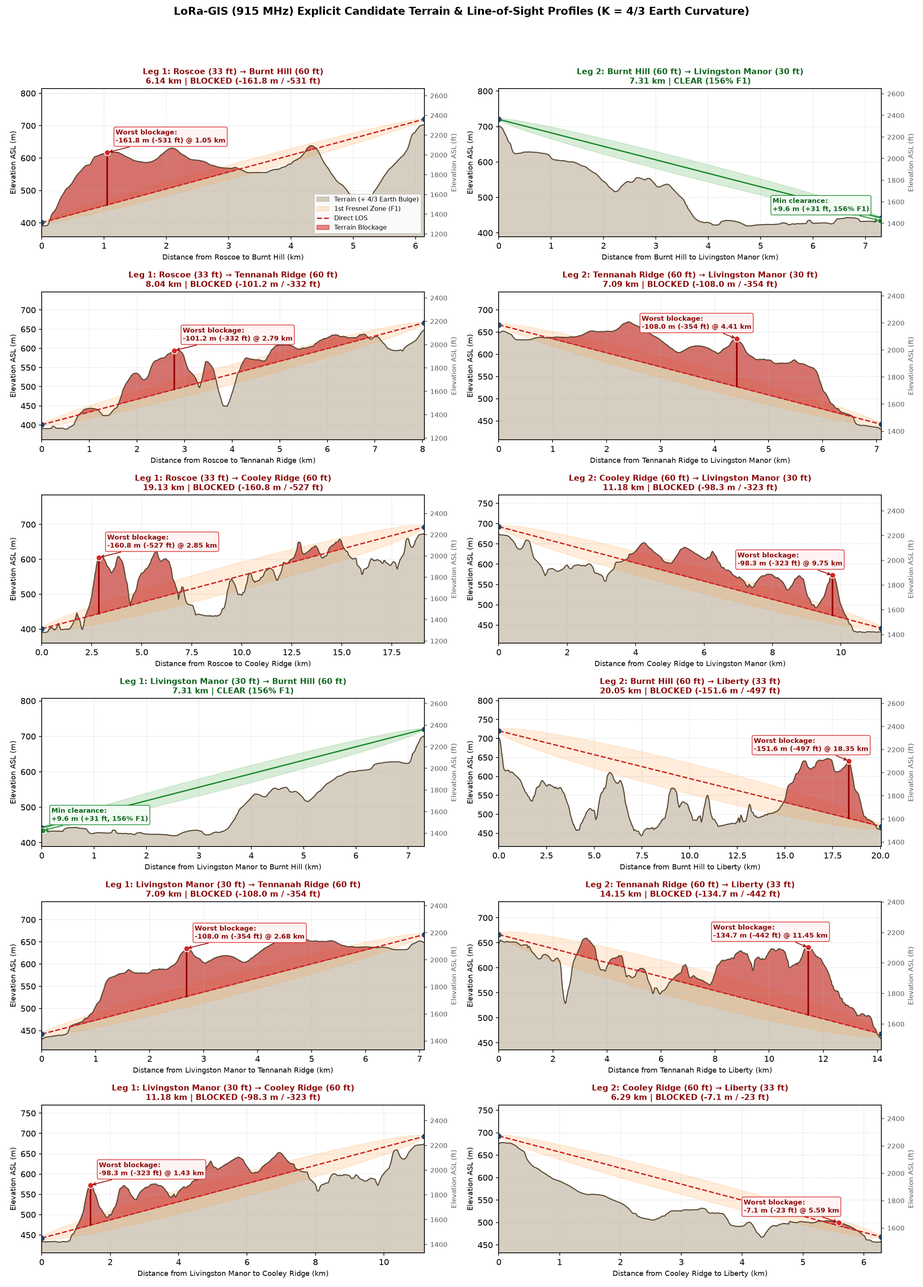
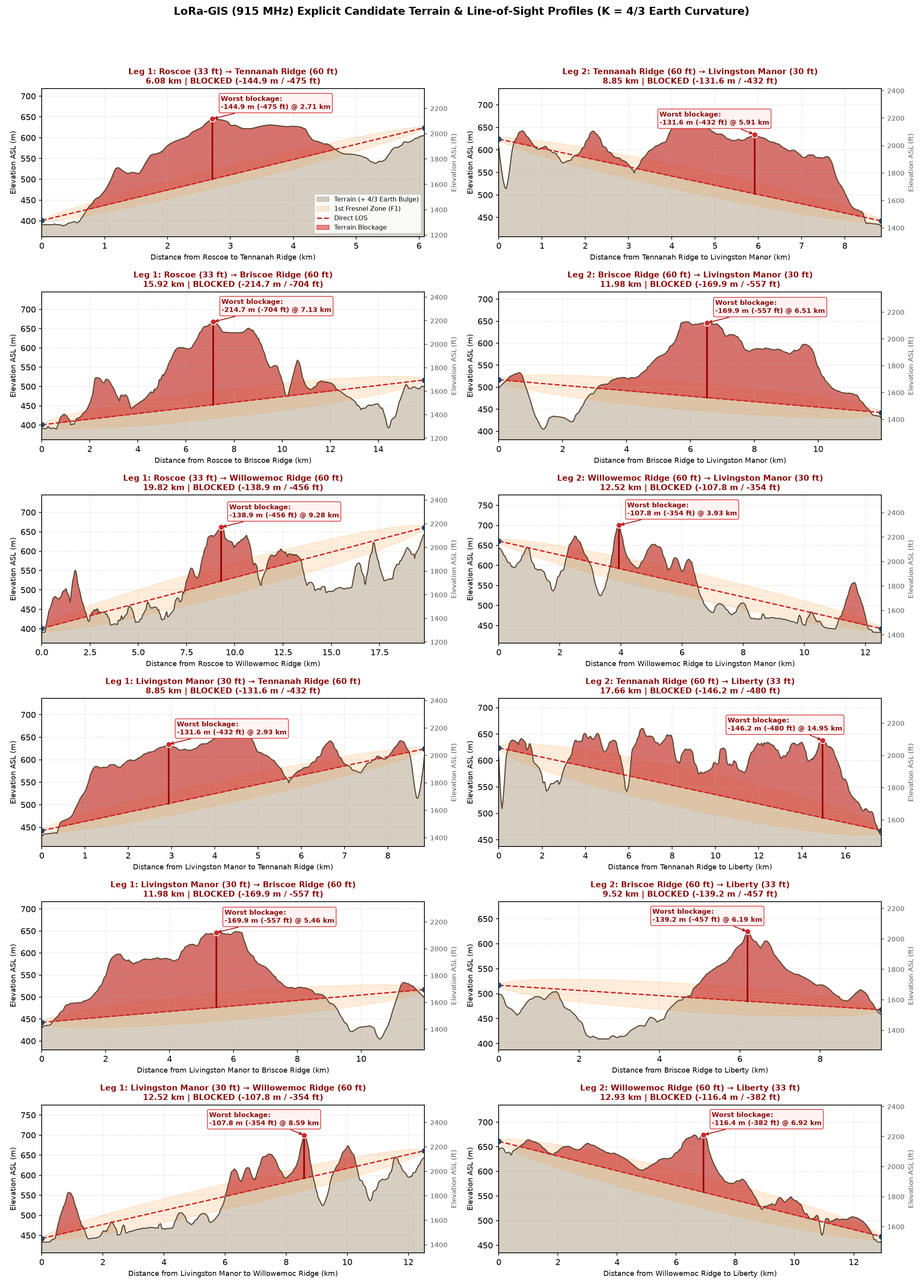
Spread example relays so blockage markers and labels avoid clutter
Move example candidates to Tennanah Ridge, Briscoe Ridge, and Willowemoc Ridge so all nine terrain blockage X markers sit cleanly in open terrain away from towns, relays, and each other. Disable partial edge-clipped labels and prioritize candidate labels in cartography.py.

diff --git a/lora_gis/cartography.py b/lora_gis/cartography.py
@@ -481,6 +481,7 @@ def render_topographic_map(
             c_lbl.fieldName = "LabelText"
             c_lbl.isExpression = False
             c_lbl.dist = 2.0
+            c_lbl.priority = 8
             c_lbl.setFormat(c_tf)
             lyr.setLabeling(QgsVectorLayerSimpleLabeling(c_lbl))
             lyr.setLabelsEnabled(True)
@@ -492,6 +493,19 @@ def render_topographic_map(
     map_settings = QgsMapSettings()
     map_settings.setDestinationCrs(crs_utm)
     map_settings.setTransformContext(QgsProject.instance().transformContext())
+    try:
+        from qgis.core import Qgis, QgsLabelingEngineSettings
+        les = map_settings.labelingEngineSettings()
+        partial_flag = getattr(
+            getattr(Qgis, "LabelingFlag", None),
+            "UsePartialCandidates",
+            getattr(QgsLabelingEngineSettings, "UsePartialCandidates", None),
+        )
+        if partial_flag is not None:
+            les.setFlag(partial_flag, False)
+            map_settings.setLabelingEngineSettings(les)
+    except Exception:
+        pass
 
     render_layers = [node_layer, *extra_cand_layers, peak_layer, town_layer, line_layer, onehop_layer, *extra_cand_line_layers, blocked_layer, cand_layer]
     if topo_layer.isValid():

diff --git a/examples/roscoe-livingston-manor-liberty/report.md b/examples/roscoe-livingston-manor-liberty/report.md
@@ -1,4 +1,4 @@
-# LoRa-GIS 915 MHz LoRa (MeshCore) Relay Report — Roscoe ↔ Livingston Manor ↔ Liberty (2026-11-23_07-50-09)
+# LoRa-GIS 915 MHz LoRa (MeshCore) Relay Report — Roscoe ↔ Livingston Manor ↔ Liberty (2026-11-23_08-01-32)
 
 ![Topographic Relay Map](map.png)
 
@@ -10,38 +10,38 @@
 | **Target Fresnel Clearance** | `>= 60%` of 1st Fresnel Zone ($F_1$), $K = 4/3$ Earth Curvature |
 | **Intermediate Relay Height** | `18.3 m` (`60.0 ft`) AGL |
 | **Roscoe** | `41.933153, -74.913498` — Ground Elev `390.8 m` (`1,282 ft`), Mount `10.00 m` (`32.8 ft`) AGL |
-| **Livingston Manor (Repeater Hub)** | `41.900375, -74.828218` — Ground Elev `433.1 m` (`1,421 ft`), Mount `9.14 m` (`30.0 ft`) AGL |
+| **Livingston Manor (Repeater Hub)** | `41.900375, -74.828218` — Ground Elev `433.3 m` (`1,422 ft`), Mount `9.14 m` (`30.0 ft`) AGL |
 | **Liberty** | `41.801209, -74.746552` — Ground Elev `457.8 m` (`1,502 ft`), Mount `10.00 m` (`32.8 ft`) AGL |
-| **Burnt Hill (Candidate Relay)** | `41.963780, -74.851790`, Ground Elev `702.0 m` (`2,303 ft`), Mount `18.30 m` (`60.0 ft`) AGL |
-| **Tennanah Ridge (Candidate Relay)** | `41.861900, -74.896400`, Ground Elev `648.3 m` (`2,127 ft`), Mount `18.30 m` (`60.0 ft`) AGL |
-| **Cooley Ridge (Candidate Relay)** | `41.851100, -74.710700`, Ground Elev `674.5 m` (`2,213 ft`), Mount `18.30 m` (`60.0 ft`) AGL |
-| **Direct Link (Roscoe ↔ Livingston Manor, `7.95 km`)** | BLOCKED BY TERRAIN (-185.4 m / -608 ft deficit) |
+| **Tennanah Ridge (Candidate Relay)** | `41.880000, -74.931300`, Ground Elev `605.7 m` (`1,987 ft`), Mount `18.30 m` (`60.0 ft`) AGL |
+| **Briscoe Ridge (Candidate Relay)** | `41.795300, -74.860900`, Ground Elev `498.6 m` (`1,636 ft`), Mount `18.30 m` (`60.0 ft`) AGL |
+| **Willowemoc Ridge (Candidate Relay)** | `41.905600, -74.677400`, Ground Elev `642.6 m` (`2,108 ft`), Mount `18.30 m` (`60.0 ft`) AGL |
+| **Direct Link (Roscoe ↔ Livingston Manor, `7.95 km`)** | BLOCKED BY TERRAIN (-185.3 m / -608 ft deficit) |
 | **Viable 1-Hop Sites (Roscoe ↔ Livingston Manor)** | `0` (`Roscoe` at `33 ft`, `Livingston Manor` at `30 ft`) |
-| **Viable 2-Hop Pairs (Roscoe ↔ Livingston Manor)** | `245` |
+| **Viable 2-Hop Pairs (Roscoe ↔ Livingston Manor)** | `140` |
 | **Direct Link (Livingston Manor ↔ Liberty, `12.93 km`)** | BLOCKED BY TERRAIN (-188.4 m / -618 ft deficit) |
 | **Viable 1-Hop Sites (Livingston Manor ↔ Liberty)** | `0` (`Livingston Manor` at `30 ft`, `Liberty` at `33 ft`) |
-| **Viable 2-Hop Pairs (Livingston Manor ↔ Liberty)** | `84` |
+| **Viable 2-Hop Pairs (Livingston Manor ↔ Liberty)** | `55` |
 
 ## 2. Roscoe ↔ Livingston Manor Link Analysis (`7.95 km` Direct)
 
 - **Direct Distance**: `7.95 km` (`4.94 mi`)
-- **Direct Line-of-Sight (`33 ft` at Roscoe → `30 ft` at Livingston Manor)**: **BLOCKED BY TERRAIN** — Minimum terrain clearance is `-185.4 m` (`-608 ft`), Min $F_1$ ratio `-810%`.
+- **Direct Line-of-Sight (`33 ft` at Roscoe → `30 ft` at Livingston Manor)**: **BLOCKED BY TERRAIN** — Minimum terrain clearance is `-185.3 m` (`-608 ft`), Min $F_1$ ratio `-810%`.
 
 ### Optimal 2-Hop Repeater Solution (Roscoe ↔ Livingston Manor, Solid Red Path)
 
 | Node | Latitude, Longitude (WGS84) | UTM Zone 18N (E, N) | Ground Elevation | Mount Height (AGL) | Total Tip Elevation (ASL) |
 | :--- | :--- | :--- | :--- | :--- | :--- |
 | **Roscoe** | `41.933153, -74.913498` | `E 507171.4, N 4642357.9` | `390.8 m` (`1,282 ft`) | `10.00 m` (`33 ft`) | `400.8 m` (`1,315 ft`) |
-| **2-Hop Relay 1** | `41.920621, -74.884330` | `E 509591.4, N 4640969.4` | `605.8 m` (`1,988 ft`) | `18.3 m` (`60 ft`) | `624.1 m` (`2,048 ft`) |
-| **2-Hop Relay 2** | `41.905989, -74.849633` | `E 512471.4, N 4639349.4` | `608.2 m` (`1,995 ft`) | `18.3 m` (`60 ft`) | `626.5 m` (`2,055 ft`) |
-| **Livingston Manor** | `41.900375, -74.828218` | `E 514248.7, N 4638729.4` | `433.1 m` (`1,421 ft`) | `9.14 m` (`30 ft`) | `442.3 m` (`1,451 ft`) |
+| **2-Hop Relay 1** | `41.920621, -74.884330` | `E 509591.4, N 4640969.4` | `606.0 m` (`1,988 ft`) | `18.3 m` (`60 ft`) | `624.3 m` (`2,048 ft`) |
+| **2-Hop Relay 2** | `41.905989, -74.849633` | `E 512471.4, N 4639349.4` | `608.2 m` (`1,996 ft`) | `18.3 m` (`60 ft`) | `626.5 m` (`2,056 ft`) |
+| **Livingston Manor** | `41.900375, -74.828218` | `E 514248.7, N 4638729.4` | `433.3 m` (`1,422 ft`) | `9.14 m` (`30 ft`) | `442.5 m` (`1,452 ft`) |
 
 | Hop Segment | Distance | Min Terrain Clearance | Min 1st Fresnel ($F_1$) Clearance | 915 MHz Free-Space Path Loss (FSPL) |
 | :--- | :--- | :--- | :--- | :--- |
-| **Hop 1: Roscoe → 2-Hop Relay 1** | `2.79 km` (`1.73 mi`) | `12.9 m` (`42 ft`) | **`327%`** | `100.6 dB` |
-| **Hop 2: 2-Hop Relay 1 → 2-Hop Relay 2** | `3.30 km` (`2.05 mi`) | `7.1 m` (`23 ft`) | **`68%`** | `102.1 dB` |
-| **Hop 3: 2-Hop Relay 2 → Livingston Manor** | `1.88 km` (`1.17 mi`) | `10.1 m` (`33 ft`) | **`144%`** | `97.2 dB` |
-| **Total 2-Hop Link** | **`7.98 km`** (`4.96 mi`, `+0.3%`) | `7.1 m` worst-case | **`68%`** worst-case | Max hop: `102.1 dB` |
+| **Hop 1: Roscoe → 2-Hop Relay 1** | `2.79 km` (`1.73 mi`) | `13.0 m` (`43 ft`) | **`328%`** | `100.6 dB` |
+| **Hop 2: 2-Hop Relay 1 → 2-Hop Relay 2** | `3.30 km` (`2.05 mi`) | `7.2 m` (`24 ft`) | **`69%`** | `102.1 dB` |
+| **Hop 3: 2-Hop Relay 2 → Livingston Manor** | `1.88 km` (`1.17 mi`) | `10.3 m` (`34 ft`) | **`145%`** | `97.2 dB` |
+| **Total 2-Hop Link** | **`7.98 km`** (`4.96 mi`, `+0.3%`) | `7.2 m` worst-case | **`69%`** worst-case | Max hop: `102.1 dB` |
 
 ### Explicit Candidate Relay Evaluation (Roscoe ↔ Livingston Manor)
 
@@ -49,53 +49,38 @@
 
 | Candidate Site | Coordinates (Lat, Lon) | Ground Elev | Mount (AGL) | Leg 1 (Roscoe → C) | Leg 2 (C → Livingston Manor) | 1-Hop Verdict | Total Path |
 | :--- | :--- | :--- | :--- | :--- | :--- | :--- | :--- |
-| **Burnt Hill** | `41.963780, -74.851790` | `702.0 m` (`2,303 ft`) | `18.30 m` (`60 ft`) | BLOCKED (`-161.8 m`, `6.14 km`) | CLEAR: `156%` F1 (`9.6 m`, `7.31 km`, `108.9 dB`) | BLOCKED (`-161.8 m`) | `13.45 km` |
-| **Tennanah Ridge** | `41.861900, -74.896400` | `648.3 m` (`2,127 ft`) | `18.30 m` (`60 ft`) | BLOCKED (`-101.2 m`, `8.04 km`) | BLOCKED (`-108.0 m`, `7.09 km`) | BLOCKED (`-108.0 m`) | `15.13 km` |
-| **Cooley Ridge** | `41.851100, -74.710700` | `674.5 m` (`2,213 ft`) | `18.30 m` (`60 ft`) | BLOCKED (`-160.8 m`, `19.13 km`) | BLOCKED (`-98.3 m`, `11.18 km`) | BLOCKED (`-160.8 m`) | `30.31 km` |
+| **Tennanah Ridge** | `41.880000, -74.931300` | `605.7 m` (`1,987 ft`) | `18.30 m` (`60 ft`) | BLOCKED (`-144.9 m`, `6.08 km`) | BLOCKED (`-131.6 m`, `8.85 km`) | BLOCKED (`-144.9 m`) | `14.93 km` |
+| **Briscoe Ridge** | `41.795300, -74.860900` | `498.6 m` (`1,636 ft`) | `18.30 m` (`60 ft`) | BLOCKED (`-214.7 m`, `15.92 km`) | BLOCKED (`-169.9 m`, `11.98 km`) | BLOCKED (`-214.7 m`) | `27.89 km` |
+| **Willowemoc Ridge** | `41.905600, -74.677400` | `642.6 m` (`2,108 ft`) | `18.30 m` (`60 ft`) | BLOCKED (`-138.9 m`, `19.82 km`) | BLOCKED (`-107.8 m`, `12.52 km`) | BLOCKED (`-138.9 m`) | `32.34 km` |
 
 ### Explicit Candidate Sensitivity to Livingston Manor Repeater Height
 
-| Livingston Manor Height | Burnt Hill | Tennanah Ridge | Cooley Ridge |
+| Livingston Manor Height | Tennanah Ridge | Briscoe Ridge | Willowemoc Ridge |
 | :--- | :--- | :--- | :--- |
-| **30 ft (9.14 m) at Livingston Manor** | Blocked (L1 blk, L2 OK; `-161.8 m`) | Blocked (L1 blk, L2 blk; `-108.0 m`) | Blocked (L1 blk, L2 blk; `-160.8 m`) |
-| **33 ft (10.0 m) at Livingston Manor** | Blocked (L1 blk, L2 OK; `-161.8 m`) | Blocked (L1 blk, L2 blk; `-107.5 m`) | Blocked (L1 blk, L2 blk; `-160.8 m`) |
-| **45 ft (13.7 m) at Livingston Manor** | Blocked (L1 blk, L2 OK; `-161.8 m`) | Blocked (L1 blk, L2 blk; `-105.1 m`) | Blocked (L1 blk, L2 blk; `-160.8 m`) |
-| **60 ft (18.3 m) at Livingston Manor** | Blocked (L1 blk, L2 OK; `-161.8 m`) | Blocked (L1 blk, L2 blk; `-102.3 m`) | Blocked (L1 blk, L2 blk; `-160.8 m`) |
-| **63 ft (19.14 m = 10m + 30ft) at Livingston Manor** | Blocked (L1 blk, L2 OK; `-161.8 m`) | Blocked (L1 blk, L2 blk; `-101.8 m`) | Blocked (L1 blk, L2 blk; `-160.8 m`) |
-| **90 ft (27.4 m) at Livingston Manor** | Blocked (L1 blk, L2 OK; `-161.8 m`) | Blocked (L1 blk, L2 blk; `-101.2 m`) | Blocked (L1 blk, L2 blk; `-160.8 m`) |
+| **30 ft (9.14 m) at Livingston Manor** | Blocked (L1 blk, L2 blk; `-144.9 m`) | Blocked (L1 blk, L2 blk; `-214.7 m`) | Blocked (L1 blk, L2 blk; `-138.9 m`) |
+| **33 ft (10.0 m) at Livingston Manor** | Blocked (L1 blk, L2 blk; `-144.9 m`) | Blocked (L1 blk, L2 blk; `-214.7 m`) | Blocked (L1 blk, L2 blk; `-138.9 m`) |
+| **45 ft (13.7 m) at Livingston Manor** | Blocked (L1 blk, L2 blk; `-144.9 m`) | Blocked (L1 blk, L2 blk; `-214.7 m`) | Blocked (L1 blk, L2 blk; `-138.9 m`) |
+| **60 ft (18.3 m) at Livingston Manor** | Blocked (L1 blk, L2 blk; `-144.9 m`) | Blocked (L1 blk, L2 blk; `-214.7 m`) | Blocked (L1 blk, L2 blk; `-138.9 m`) |
+| **63 ft (19.14 m = 10m + 30ft) at Livingston Manor** | Blocked (L1 blk, L2 blk; `-144.9 m`) | Blocked (L1 blk, L2 blk; `-214.7 m`) | Blocked (L1 blk, L2 blk; `-138.9 m`) |
+| **90 ft (27.4 m) at Livingston Manor** | Blocked (L1 blk, L2 blk; `-144.9 m`) | Blocked (L1 blk, L2 blk; `-214.7 m`) | Blocked (L1 blk, L2 blk; `-138.9 m`) |
 
 ### Explicit Candidate 2-Hop Pair Evaluation (Roscoe ↔ Livingston Manor)
 
 | Relay 1 -> Relay 2 | Hop 1 (Roscoe → R1) | Hop 2 (R1 → R2) | Hop 3 (R2 → Livingston Manor) | Verdict | Total Path |
 | :--- | :--- | :--- | :--- | :--- | :--- |
-| **Tennanah Ridge** → **Burnt Hill** | BLK `-101.2 m` | CLEAR `20%` | CLEAR `156%` | Blocked (`-101.2 m`) | `27.24 km` |
-| **Tennanah Ridge** → **Cooley Ridge** | BLK `-101.2 m` | CLEAR `110%` | BLK `-98.3 m` | Blocked (`-101.2 m`) | `34.68 km` |
-| **Cooley Ridge** → **Tennanah Ridge** | BLK `-160.8 m` | CLEAR `110%` | BLK `-108.0 m` | Blocked (`-160.8 m`) | `41.68 km` |
-| **Cooley Ridge** → **Burnt Hill** | BLK `-160.8 m` | CLEAR `104%` | CLEAR `156%` | Blocked (`-160.8 m`) | `43.57 km` |
-| **Burnt Hill** → **Tennanah Ridge** | BLK `-161.8 m` | CLEAR `20%` | BLK `-108.0 m` | Blocked (`-161.8 m`) | `25.13 km` |
-| **Burnt Hill** → **Cooley Ridge** | BLK `-161.8 m` | CLEAR `104%` | BLK `-98.3 m` | Blocked (`-161.8 m`) | `34.45 km` |
-
-### Top Hybrid 2-Hop Solutions (1 Explicit Candidate + 1 Grid Relay, Roscoe ↔ Livingston Manor)
-
-| Rank | Relay 1 | Relay 2 | Hop 1 $F_1$ | Hop 2 $F_1$ | Hop 3 $F_1$ | Worst-Case $F_1$ | Total Path |
-| :--- | :--- | :--- | :--- | :--- | :--- | :--- | :--- |
-| `#1` | Grid (`41.92117, -74.89301`) | **Burnt Hill** | `295%` | `128%` | `156%` | **`128%`** (`9.6 m`) | `15.30 km` |
-| `#2` | Grid (`41.92224, -74.88433`) | **Burnt Hill** | `157%` | `112%` | `156%` | **`112%`** (`9.6 m`) | `15.35 km` |
-| `#3` | Grid (`41.92117, -74.88939`) | **Burnt Hill** | `286%` | `79%` | `156%` | **`79%`** (`9.6 m`) | `15.37 km` |
-| `#4` | Grid (`41.92063, -74.89301`) | **Burnt Hill** | `323%` | `178%` | `156%` | **`156%`** (`9.6 m`) | `15.39 km` |
-| `#5` | Grid (`41.92063, -74.89084`) | **Burnt Hill** | `309%` | `144%` | `156%` | **`144%`** (`9.6 m`) | `15.43 km` |
-| `#6` | Grid (`41.92116, -74.88578`) | **Burnt Hill** | `292%` | `183%` | `156%` | **`156%`** (`9.6 m`) | `15.47 km` |
-| `#7` | Grid (`41.92062, -74.88867`) | **Burnt Hill** | `297%` | `120%` | `156%` | **`120%`** (`9.6 m`) | `15.47 km` |
-| `#8` | Grid (`41.92062, -74.88650`) | **Burnt Hill** | `308%` | `181%` | `156%` | **`156%`** (`9.6 m`) | `15.53 km` |
-| `#9` | Grid (`41.92116, -74.88216`) | **Burnt Hill** | `224%` | `248%` | `156%` | **`156%`** (`9.6 m`) | `15.59 km` |
-| `#10` | Grid (`41.92062, -74.88433`) | **Burnt Hill** | `327%` | `301%` | `156%` | **`156%`** (`9.6 m`) | `15.59 km` |
+| **Willowemoc Ridge** → **Briscoe Ridge** | BLK `-138.9 m` | BLK `-99.6 m` | BLK `-169.9 m` | Blocked (`-169.9 m`) | `51.34 km` |
+| **Briscoe Ridge** → **Willowemoc Ridge** | BLK `-214.7 m` | BLK `-99.6 m` | BLK `-107.8 m` | Blocked (`-214.7 m`) | `47.98 km` |
+| **Briscoe Ridge** → **Tennanah Ridge** | BLK `-214.7 m` | BLK `-40.1 m` | BLK `-131.6 m` | Blocked (`-214.7 m`) | `35.83 km` |
+| **Willowemoc Ridge** → **Tennanah Ridge** | BLK `-138.9 m` | BLK `-58.6 m` | BLK `-131.6 m` | Blocked (`-138.9 m`) | `49.91 km` |
+| **Tennanah Ridge** → **Briscoe Ridge** | BLK `-144.9 m` | BLK `-40.1 m` | BLK `-169.9 m` | Blocked (`-169.9 m`) | `29.13 km` |
+| **Tennanah Ridge** → **Willowemoc Ridge** | BLK `-144.9 m` | BLK `-58.6 m` | BLK `-107.8 m` | Blocked (`-144.9 m`) | `39.86 km` |
 
 ### Roscoe ↔ Livingston Manor 1-Hop Sensitivity to Livingston Manor Repeater Height (with `60 ft` Intermediate Relay)
 
 | Livingston Manor Repeater Height | Visible from Roscoe | Visible from Livingston Manor | Viable 1-Hop Sites | Fresnel-Clear (`>= 60% F1`) | Best 1-Hop Relay (Lat, Lon) | Worst-Case $F_1$ (Min Clear) |
 | :--- | :--- | :--- | :--- | :--- | :--- | :--- |
-| **30 ft (9.14 m) at Livingston Manor** | `327` | `464` | `0` | `0` | *None* | — |
-| **33 ft (10.0 m) at Livingston Manor** | `327` | `471` | `0` | `0` | *None* | — |
+| **30 ft (9.14 m) at Livingston Manor** | `327` | `467` | `0` | `0` | *None* | — |
+| **33 ft (10.0 m) at Livingston Manor** | `327` | `477` | `0` | `0` | *None* | — |
 | **45 ft (13.7 m) at Livingston Manor** | `327` | `488` | `0` | `0` | *None* | — |
 | **60 ft (18.3 m) at Livingston Manor** | `327` | `499` | `0` | `0` | *None* | — |
 | **63 ft (19.14 m = 10m + 30ft) at Livingston Manor** | `327` | `500` | `0` | `0` | *None* | — |
@@ -105,16 +90,16 @@
 
 | Rank | Relay 1 (Lat, Lon) | Relay 1 Elev | Relay 2 (Lat, Lon) | Relay 2 Elev | Worst-Case $F_1$ Clear | Min Clear (m) | Total Path Length |
 | :--- | :--- | :--- | :--- | :--- | :--- | :--- | :--- |
-| `#1` | `41.920621, -74.884330` | `606 m` (`1,988 ft`) | `41.905989, -74.849633` | `608 m` (`1,995 ft`) | **`68%`** | `7.1 m` | `7.98 km` (`4.96 mi`) |
-| `#2` | `41.920618, -74.882160` | `601 m` (`1,972 ft`) | `41.905989, -74.849633` | `608 m` (`1,995 ft`) | **`63%`** | `6.5 m` | `7.98 km` (`4.96 mi`) |
-| `#3` | `41.920614, -74.877818` | `579 m` (`1,900 ft`) | `41.912474, -74.849617` | `588 m` (`1,928 ft`) | **`71%`** | `9.0 m` | `8.00 km` (`4.97 mi`) |
+| `#1` | `41.920621, -74.884330` | `606 m` (`1,988 ft`) | `41.905989, -74.849633` | `608 m` (`1,996 ft`) | **`69%`** | `7.2 m` | `7.98 km` (`4.96 mi`) |
+| `#2` | `41.920618, -74.882160` | `601 m` (`1,973 ft`) | `41.905989, -74.849633` | `608 m` (`1,996 ft`) | **`64%`** | `6.6 m` | `7.98 km` (`4.96 mi`) |
+| `#3` | `41.920614, -74.877818` | `579 m` (`1,900 ft`) | `41.912474, -74.849617` | `588 m` (`1,928 ft`) | **`74%`** | `9.2 m` | `8.00 km` (`4.97 mi`) |
 | `#4` | `41.915753, -74.879998` | `657 m` (`2,155 ft`) | `41.905987, -74.847462` | `598 m` (`1,961 ft`) | **`63%`** | `7.4 m` | `8.00 km` (`4.97 mi`) |
-| `#5` | `41.915753, -74.879998` | `657 m` (`2,155 ft`) | `41.905989, -74.849633` | `608 m` (`1,995 ft`) | **`121%`** | `10.1 m` | `8.01 km` (`4.98 mi`) |
-| `#6` | `41.920616, -74.879989` | `594 m` (`1,949 ft`) | `41.912474, -74.849617` | `588 m` (`1,928 ft`) | **`71%`** | `9.0 m` | `8.01 km` (`4.98 mi`) |
-| `#7` | `41.915751, -74.878551` | `655 m` (`2,149 ft`) | `41.904909, -74.849635` | `606 m` (`1,988 ft`) | **`73%`** | `7.0 m` | `8.01 km` (`4.98 mi`) |
-| `#8` | `41.931989, -74.906021` | `469 m` (`1,540 ft`) | `41.912474, -74.849617` | `588 m` (`1,928 ft`) | **`62%`** | `8.5 m` | `8.01 km` (`4.98 mi`) |
-| `#9` | `41.921155, -74.878541` | `574 m` (`1,883 ft`) | `41.913015, -74.849616` | `589 m` (`1,932 ft`) | **`77%`** | `8.9 m` | `8.02 km` (`4.98 mi`) |
-| `#10` | `41.920618, -74.882160` | `601 m` (`1,972 ft`) | `41.912474, -74.849617` | `588 m` (`1,928 ft`) | **`71%`** | `9.0 m` | `8.02 km` (`4.98 mi`) |
+| `#5` | `41.915753, -74.879998` | `657 m` (`2,155 ft`) | `41.905989, -74.849633` | `608 m` (`1,996 ft`) | **`122%`** | `10.3 m` | `8.01 km` (`4.98 mi`) |
+| `#6` | `41.920616, -74.879989` | `594 m` (`1,950 ft`) | `41.912474, -74.849617` | `588 m` (`1,928 ft`) | **`74%`** | `9.2 m` | `8.01 km` (`4.98 mi`) |
+| `#7` | `41.915751, -74.878551` | `655 m` (`2,150 ft`) | `41.904909, -74.849635` | `606 m` (`1,988 ft`) | **`73%`** | `6.9 m` | `8.01 km` (`4.98 mi`) |
+| `#8` | `41.921155, -74.878541` | `574 m` (`1,884 ft`) | `41.913015, -74.849616` | `589 m` (`1,932 ft`) | **`86%`** | `10.0 m` | `8.02 km` (`4.98 mi`) |
+| `#9` | `41.920618, -74.882160` | `601 m` (`1,973 ft`) | `41.912474, -74.849617` | `588 m` (`1,928 ft`) | **`74%`** | `9.2 m` | `8.02 km` (`4.98 mi`) |
+| `#10` | `41.921159, -74.882159` | `588 m` (`1,930 ft`) | `41.913015, -74.849616` | `589 m` (`1,932 ft`) | **`134%`** | `11.7 m` | `8.03 km` (`4.99 mi`) |
 
 ## 3. Livingston Manor ↔ Liberty Link Analysis (`12.93 km` Direct)
 
@@ -125,17 +110,17 @@
 
 | Node | Latitude, Longitude (WGS84) | UTM Zone 18N (E, N) | Ground Elevation | Mount Height (AGL) | Total Tip Elevation (ASL) |
 | :--- | :--- | :--- | :--- | :--- | :--- |
-| **Livingston Manor** | `41.900375, -74.828218` | `E 514248.7, N 4638729.4` | `433.1 m` (`1,421 ft`) | `9.14 m` (`30 ft`) | `442.3 m` (`1,451 ft`) |
-| **2-Hop Relay 1** | `41.859847, -74.793387` | `E 517148.7, N 4634236.1` | `625.3 m` (`2,051 ft`) | `18.3 m` (`60 ft`) | `643.6 m` (`2,111 ft`) |
+| **Livingston Manor** | `41.900375, -74.828218` | `E 514248.7, N 4638729.4` | `433.3 m` (`1,422 ft`) | `9.14 m` (`30 ft`) | `442.5 m` (`1,452 ft`) |
+| **2-Hop Relay 1** | `41.859847, -74.793387` | `E 517148.7, N 4634236.1` | `625.3 m` (`2,052 ft`) | `18.3 m` (`60 ft`) | `643.6 m` (`2,112 ft`) |
 | **2-Hop Relay 2** | `41.819238, -74.753783` | `E 520448.7, N 4629736.1` | `637.6 m` (`2,092 ft`) | `18.3 m` (`60 ft`) | `655.9 m` (`2,152 ft`) |
 | **Liberty** | `41.801209, -74.746552` | `E 521055.2, N 4627736.1` | `457.8 m` (`1,502 ft`) | `10.00 m` (`33 ft`) | `467.8 m` (`1,535 ft`) |
 
 | Hop Segment | Distance | Min Terrain Clearance | Min 1st Fresnel ($F_1$) Clearance | 915 MHz Free-Space Path Loss (FSPL) |
 | :--- | :--- | :--- | :--- | :--- |
-| **Hop 1: Livingston Manor → 2-Hop Relay 1** | `5.35 km` (`3.32 mi`) | `12.0 m` (`39 ft`) | **`77%`** | `106.2 dB` |
-| **Hop 2: 2-Hop Relay 1 → 2-Hop Relay 2** | `5.58 km` (`3.47 mi`) | `11.8 m` (`39 ft`) | **`70%`** | `106.6 dB` |
-| **Hop 3: 2-Hop Relay 2 → Liberty** | `2.09 km` (`1.30 mi`) | `11.1 m` (`36 ft`) | **`296%`** | `98.1 dB` |
-| **Total 2-Hop Link** | **`13.02 km`** (`8.09 mi`, `+0.7%`) | `11.1 m` worst-case | **`70%`** worst-case | Max hop: `106.6 dB` |
+| **Hop 1: Livingston Manor → 2-Hop Relay 1** | `5.35 km` (`3.32 mi`) | `12.2 m` (`40 ft`) | **`77%`** | `106.2 dB` |
+| **Hop 2: 2-Hop Relay 1 → 2-Hop Relay 2** | `5.58 km` (`3.47 mi`) | `12.0 m` (`39 ft`) | **`70%`** | `106.6 dB` |
+| **Hop 3: 2-Hop Relay 2 → Liberty** | `2.09 km` (`1.30 mi`) | `11.0 m` (`36 ft`) | **`298%`** | `98.1 dB` |
+| **Total 2-Hop Link** | **`13.02 km`** (`8.09 mi`, `+0.7%`) | `11.0 m` worst-case | **`70%`** worst-case | Max hop: `106.6 dB` |
 
 ### Explicit Candidate Relay Evaluation (Livingston Manor ↔ Liberty)
 
@@ -143,94 +128,77 @@
 
 | Candidate Site | Coordinates (Lat, Lon) | Ground Elev | Mount (AGL) | Leg 1 (Livingston Manor → C) | Leg 2 (C → Liberty) | 1-Hop Verdict | Total Path |
 | :--- | :--- | :--- | :--- | :--- | :--- | :--- | :--- |
-| **Burnt Hill** | `41.963780, -74.851790` | `702.0 m` (`2,303 ft`) | `18.30 m` (`60 ft`) | CLEAR: `156%` F1 (`9.6 m`, `7.31 km`, `108.9 dB`) | BLOCKED (`-151.6 m`, `20.05 km`) | BLOCKED (`-151.6 m`) | `27.36 km` |
-| **Tennanah Ridge** | `41.861900, -74.896400` | `648.3 m` (`2,127 ft`) | `18.30 m` (`60 ft`) | BLOCKED (`-108.0 m`, `7.09 km`) | BLOCKED (`-134.7 m`, `14.15 km`) | BLOCKED (`-134.7 m`) | `21.24 km` |
-| **Cooley Ridge** | `41.851100, -74.710700` | `674.5 m` (`2,213 ft`) | `18.30 m` (`60 ft`) | BLOCKED (`-98.3 m`, `11.18 km`) | BLOCKED (`-7.1 m`, `6.29 km`) | BLOCKED (`-98.3 m`) | `17.47 km` |
+| **Tennanah Ridge** | `41.880000, -74.931300` | `605.7 m` (`1,987 ft`) | `18.30 m` (`60 ft`) | BLOCKED (`-131.6 m`, `8.85 km`) | BLOCKED (`-146.2 m`, `17.66 km`) | BLOCKED (`-146.2 m`) | `26.50 km` |
+| **Briscoe Ridge** | `41.795300, -74.860900` | `498.6 m` (`1,636 ft`) | `18.30 m` (`60 ft`) | BLOCKED (`-169.9 m`, `11.98 km`) | BLOCKED (`-139.2 m`, `9.52 km`) | BLOCKED (`-169.9 m`) | `21.50 km` |
+| **Willowemoc Ridge** | `41.905600, -74.677400` | `642.6 m` (`2,108 ft`) | `18.30 m` (`60 ft`) | BLOCKED (`-107.8 m`, `12.52 km`) | BLOCKED (`-116.4 m`, `12.93 km`) | BLOCKED (`-116.4 m`) | `25.46 km` |
 
 ### Explicit Candidate Sensitivity to Livingston Manor Repeater Height
 
-| Livingston Manor Height | Burnt Hill | Tennanah Ridge | Cooley Ridge |
+| Livingston Manor Height | Tennanah Ridge | Briscoe Ridge | Willowemoc Ridge |
 | :--- | :--- | :--- | :--- |
-| **30 ft (9.14 m) at Livingston Manor** | Blocked (L1 OK, L2 blk; `-151.6 m`) | Blocked (L1 blk, L2 blk; `-134.7 m`) | Blocked (L1 blk, L2 blk; `-98.3 m`) |
-| **33 ft (10.0 m) at Livingston Manor** | Blocked (L1 OK, L2 blk; `-151.6 m`) | Blocked (L1 blk, L2 blk; `-134.7 m`) | Blocked (L1 blk, L2 blk; `-97.5 m`) |
-| **45 ft (13.7 m) at Livingston Manor** | Blocked (L1 OK, L2 blk; `-151.6 m`) | Blocked (L1 blk, L2 blk; `-134.7 m`) | Blocked (L1 blk, L2 blk; `-94.3 m`) |
-| **60 ft (18.3 m) at Livingston Manor** | Blocked (L1 OK, L2 blk; `-151.6 m`) | Blocked (L1 blk, L2 blk; `-134.7 m`) | Blocked (L1 blk, L2 blk; `-90.3 m`) |
-| **63 ft (19.14 m = 10m + 30ft) at Livingston Manor** | Blocked (L1 OK, L2 blk; `-151.6 m`) | Blocked (L1 blk, L2 blk; `-134.7 m`) | Blocked (L1 blk, L2 blk; `-89.6 m`) |
-| **90 ft (27.4 m) at Livingston Manor** | Blocked (L1 OK, L2 blk; `-151.6 m`) | Blocked (L1 blk, L2 blk; `-134.7 m`) | Blocked (L1 blk, L2 blk; `-82.3 m`) |
+| **30 ft (9.14 m) at Livingston Manor** | Blocked (L1 blk, L2 blk; `-146.2 m`) | Blocked (L1 blk, L2 blk; `-169.9 m`) | Blocked (L1 blk, L2 blk; `-116.4 m`) |
+| **33 ft (10.0 m) at Livingston Manor** | Blocked (L1 blk, L2 blk; `-146.2 m`) | Blocked (L1 blk, L2 blk; `-169.4 m`) | Blocked (L1 blk, L2 blk; `-116.4 m`) |
+| **45 ft (13.7 m) at Livingston Manor** | Blocked (L1 blk, L2 blk; `-146.2 m`) | Blocked (L1 blk, L2 blk; `-167.4 m`) | Blocked (L1 blk, L2 blk; `-116.4 m`) |
+| **60 ft (18.3 m) at Livingston Manor** | Blocked (L1 blk, L2 blk; `-146.2 m`) | Blocked (L1 blk, L2 blk; `-164.9 m`) | Blocked (L1 blk, L2 blk; `-116.4 m`) |
+| **63 ft (19.14 m = 10m + 30ft) at Livingston Manor** | Blocked (L1 blk, L2 blk; `-146.2 m`) | Blocked (L1 blk, L2 blk; `-164.4 m`) | Blocked (L1 blk, L2 blk; `-116.4 m`) |
+| **90 ft (27.4 m) at Livingston Manor** | Blocked (L1 blk, L2 blk; `-146.2 m`) | Blocked (L1 blk, L2 blk; `-159.9 m`) | Blocked (L1 blk, L2 blk; `-116.4 m`) |
 
 ### Explicit Candidate 2-Hop Pair Evaluation (Livingston Manor ↔ Liberty)
 
 | Relay 1 -> Relay 2 | Hop 1 (Livingston Manor → R1) | Hop 2 (R1 → R2) | Hop 3 (R2 → Liberty) | Verdict | Total Path |
 | :--- | :--- | :--- | :--- | :--- | :--- |
-| **Burnt Hill** → **Cooley Ridge** | CLEAR `156%` | CLEAR `104%` | BLK `-7.1 m` | Blocked (`-7.1 m`) | `30.72 km` |
-| **Tennanah Ridge** → **Cooley Ridge** | BLK `-108.0 m` | CLEAR `110%` | BLK `-7.1 m` | Blocked (`-108.0 m`) | `28.84 km` |
-| **Burnt Hill** → **Tennanah Ridge** | CLEAR `156%` | CLEAR `20%` | BLK `-134.7 m` | Blocked (`-134.7 m`) | `33.36 km` |
-| **Cooley Ridge** → **Tennanah Ridge** | BLK `-98.3 m` | CLEAR `110%` | BLK `-134.7 m` | Blocked (`-134.7 m`) | `40.79 km` |
-| **Tennanah Ridge** → **Burnt Hill** | BLK `-108.0 m` | CLEAR `20%` | BLK `-151.6 m` | Blocked (`-151.6 m`) | `39.04 km` |
-| **Cooley Ridge** → **Burnt Hill** | BLK `-98.3 m` | CLEAR `104%` | BLK `-151.6 m` | Blocked (`-151.6 m`) | `48.36 km` |
-
-### Top Hybrid 2-Hop Solutions (1 Explicit Candidate + 1 Grid Relay, Livingston Manor ↔ Liberty)
-
-| Rank | Relay 1 | Relay 2 | Hop 1 $F_1$ | Hop 2 $F_1$ | Hop 3 $F_1$ | Worst-Case $F_1$ | Total Path |
-| :--- | :--- | :--- | :--- | :--- | :--- | :--- | :--- |
-| `#1` | **Burnt Hill** | Grid (`41.81492, -74.75597`) | `156%` | `99%` | `209%` | **`99%`** (`9.6 m`) | `27.36 km` |
-| `#2` | **Burnt Hill** | Grid (`41.81474, -74.75621`) | `156%` | `103%` | `145%` | **`103%`** (`8.4 m`) | `27.36 km` |
-| `#3` | **Burnt Hill** | Grid (`41.81384, -74.75742`) | `156%` | `85%` | `334%` | **`85%`** (`9.6 m`) | `27.37 km` |
-| `#4` | **Burnt Hill** | Grid (`41.81924, -74.75378`) | `156%` | `78%` | `296%` | **`78%`** (`9.6 m`) | `27.39 km` |
-| `#5` | **Burnt Hill** | Grid (`41.81978, -74.75378`) | `156%` | `95%` | `294%` | **`95%`** (`9.6 m`) | `27.39 km` |
-| `#6` | **Burnt Hill** | Grid (`41.82140, -74.75377`) | `156%` | `85%` | `68%` | **`68%`** (`4.6 m`) | `27.40 km` |
-| `#7` | **Burnt Hill** | Grid (`41.81475, -74.76223`) | `156%` | `105%` | `156%` | **`105%`** (`9.6 m`) | `27.43 km` |
-| `#8` | **Burnt Hill** | Grid (`41.81493, -74.76247`) | `156%` | `113%` | `137%` | **`113%`** (`9.3 m`) | `27.43 km` |
-| `#9` | **Burnt Hill** | Grid (`41.82140, -74.75161`) | `156%` | `108%` | `251%` | **`108%`** (`9.6 m`) | `27.45 km` |
-| `#10` | **Burnt Hill** | Grid (`41.81494, -74.76464`) | `156%` | `140%` | `82%` | **`82%`** (`9.4 m`) | `27.48 km` |
+| **Briscoe Ridge** → **Tennanah Ridge** | BLK `-169.9 m` | BLK `-40.1 m` | BLK `-146.2 m` | Blocked (`-169.9 m`) | `40.71 km` |
+| **Briscoe Ridge** → **Willowemoc Ridge** | BLK `-169.9 m` | BLK `-99.6 m` | BLK `-116.4 m` | Blocked (`-169.9 m`) | `44.46 km` |
+| **Willowemoc Ridge** → **Briscoe Ridge** | BLK `-107.8 m` | BLK `-99.6 m` | BLK `-139.2 m` | Blocked (`-139.2 m`) | `41.59 km` |
+| **Willowemoc Ridge** → **Tennanah Ridge** | BLK `-107.8 m` | BLK `-58.6 m` | BLK `-146.2 m` | Blocked (`-146.2 m`) | `51.43 km` |
+| **Tennanah Ridge** → **Briscoe Ridge** | BLK `-131.6 m` | BLK `-40.1 m` | BLK `-139.2 m` | Blocked (`-139.2 m`) | `29.44 km` |
+| **Tennanah Ridge** → **Willowemoc Ridge** | BLK `-131.6 m` | BLK `-58.6 m` | BLK `-116.4 m` | Blocked (`-131.6 m`) | `43.03 km` |
 
 ### Livingston Manor ↔ Liberty 1-Hop Sensitivity to Livingston Manor Repeater Height (with `60 ft` Intermediate Relay)
 
 | Livingston Manor Repeater Height | Visible from Livingston Manor | Visible from Liberty | Viable 1-Hop Sites | Fresnel-Clear (`>= 60% F1`) | Best 1-Hop Relay (Lat, Lon) | Worst-Case $F_1$ (Min Clear) |
 | :--- | :--- | :--- | :--- | :--- | :--- | :--- |
-| **30 ft (9.14 m) at Livingston Manor** | `431` | `241` | `0` | `0` | *None* | — |
-| **33 ft (10.0 m) at Livingston Manor** | `435` | `241` | `0` | `0` | *None* | — |
-| **45 ft (13.7 m) at Livingston Manor** | `453` | `241` | `0` | `0` | *None* | — |
-| **60 ft (18.3 m) at Livingston Manor** | `473` | `241` | `0` | `0` | *None* | — |
-| **63 ft (19.14 m = 10m + 30ft) at Livingston Manor** | `479` | `241` | `0` | `0` | *None* | — |
-| **90 ft (27.4 m) at Livingston Manor** | `509` | `241` | `0` | `0` | *None* | — |
+| **30 ft (9.14 m) at Livingston Manor** | `434` | `240` | `0` | `0` | *None* | — |
+| **33 ft (10.0 m) at Livingston Manor** | `436` | `240` | `0` | `0` | *None* | — |
+| **45 ft (13.7 m) at Livingston Manor** | `453` | `240` | `0` | `0` | *None* | — |
+| **60 ft (18.3 m) at Livingston Manor** | `476` | `240` | `0` | `0` | *None* | — |
+| **63 ft (19.14 m = 10m + 30ft) at Livingston Manor** | `480` | `240` | `0` | `0` | *None* | — |
+| **90 ft (27.4 m) at Livingston Manor** | `507` | `240` | `0` | `0` | *None* | — |
 
 ### Top 10 Ranked 2-Relay Solutions (Livingston Manor ↔ Liberty)
 
 | Rank | Relay 1 (Lat, Lon) | Relay 1 Elev | Relay 2 (Lat, Lon) | Relay 2 Elev | Worst-Case $F_1$ Clear | Min Clear (m) | Total Path Length |
 | :--- | :--- | :--- | :--- | :--- | :--- | :--- | :--- |
-| `#1` | `41.859847, -74.793387` | `625 m` (`2,051 ft`) | `41.819238, -74.753783` | `638 m` (`2,092 ft`) | **`70%`** | `11.1 m` | `13.02 km` (`8.09 mi`) |
-| `#2` | `41.859847, -74.793387` | `625 m` (`2,051 ft`) | `41.813857, -74.764639` | `637 m` (`2,090 ft`) | **`77%`** | `9.5 m` | `13.04 km` (`8.10 mi`) |
-| `#3` | `41.884214, -74.822235` | `607 m` (`1,992 ft`) | `41.819238, -74.753783` | `638 m` (`2,092 ft`) | **`62%`** | `11.1 m` | `13.13 km` (`8.16 mi`) |
-| `#4` | `41.900417, -74.816162` | `555 m` (`1,822 ft`) | `41.814753, -74.762228` | `641 m` (`2,103 ft`) | **`60%`** | `7.7 m` | `13.50 km` (`8.39 mi`) |
-| `#5` | `41.963780, -74.851790` | `702 m` (`2,303 ft`) | `41.814920, -74.755967` | `643 m` (`2,108 ft`) | **`99%`** | `9.6 m` | `27.36 km` (`17.00 mi`) |
-| `#6` | `41.963780, -74.851790` | `702 m` (`2,303 ft`) | `41.814740, -74.756208` | `644 m` (`2,113 ft`) | **`103%`** | `8.4 m` | `27.36 km` (`17.00 mi`) |
-| `#7` | `41.963780, -74.851790` | `702 m` (`2,303 ft`) | `41.813842, -74.757416` | `644 m` (`2,113 ft`) | **`85%`** | `9.6 m` | `27.37 km` (`17.01 mi`) |
-| `#8` | `41.963780, -74.851790` | `702 m` (`2,303 ft`) | `41.819238, -74.753783` | `638 m` (`2,092 ft`) | **`78%`** | `9.6 m` | `27.39 km` (`17.02 mi`) |
-| `#9` | `41.963780, -74.851790` | `702 m` (`2,303 ft`) | `41.819779, -74.753781` | `641 m` (`2,104 ft`) | **`95%`** | `9.6 m` | `27.39 km` (`17.02 mi`) |
-| `#10` | `41.963780, -74.851790` | `702 m` (`2,303 ft`) | `41.821400, -74.753775` | `636 m` (`2,087 ft`) | **`68%`** | `4.6 m` | `27.40 km` (`17.03 mi`) |
+| `#1` | `41.859847, -74.793387` | `625 m` (`2,052 ft`) | `41.819238, -74.753783` | `638 m` (`2,092 ft`) | **`70%`** | `11.0 m` | `13.02 km` (`8.09 mi`) |
+| `#2` | `41.859847, -74.793387` | `625 m` (`2,052 ft`) | `41.813857, -74.764639` | `637 m` (`2,090 ft`) | **`77%`** | `9.5 m` | `13.04 km` (`8.10 mi`) |
+| `#3` | `41.884214, -74.822235` | `607 m` (`1,992 ft`) | `41.819238, -74.753783` | `638 m` (`2,092 ft`) | **`62%`** | `11.0 m` | `13.13 km` (`8.16 mi`) |
+| `#4` | `41.859847, -74.793387` | `625 m` (`2,052 ft`) | `41.821933, -74.750160` | `643 m` (`2,109 ft`) | **`60%`** | `11.3 m` | `13.20 km` (`8.20 mi`) |
+| `#5` | `41.900417, -74.816162` | `555 m` (`1,822 ft`) | `41.814753, -74.762228` | `641 m` (`2,103 ft`) | **`60%`** | `7.8 m` | `13.50 km` (`8.39 mi`) |
+| `#6` | `41.859847, -74.793387` | `625 m` (`2,052 ft`) | `41.813842, -74.757416` | `644 m` (`2,113 ft`) | **`58%`** | `8.9 m` | `12.93 km` (`8.04 mi`) |
+| `#7` | `41.884214, -74.822235` | `607 m` (`1,992 ft`) | `41.813842, -74.757416` | `644 m` (`2,113 ft`) | **`48%`** | `8.6 m` | `13.02 km` (`8.09 mi`) |
+| `#8` | `41.860387, -74.792662` | `616 m` (`2,021 ft`) | `41.814929, -74.760301` | `641 m` (`2,105 ft`) | **`48%`** | `3.2 m` | `12.95 km` (`8.05 mi`) |
+| `#9` | `41.859845, -74.792182` | `608 m` (`1,994 ft`) | `41.814753, -74.762228` | `641 m` (`2,103 ft`) | **`45%`** | `3.2 m` | `12.98 km` (`8.07 mi`) |
+| `#10` | `41.860387, -74.792662` | `616 m` (`2,021 ft`) | `41.814924, -74.758134` | `645 m` (`2,117 ft`) | **`45%`** | `3.1 m` | `12.94 km` (`8.04 mi`) |
 
 ## 4. Grid Resolution Scan Summary
 
 | Link | Grid Step (m) | Candidate Grid Points | Visible from Node 1 | Visible from Node 2 | Valid 1-Hop Sites | 2-Hop Pairs Evaluated | Valid 2-Hop Solutions |
 | :--- | :--- | :--- | :--- | :--- | :--- | :--- | :--- |
-| **Roscoe ↔ Livingston Manor** | `500.0 m` | `228` | `39` | `46` | **`0`** | `1500` | **`68`** |
-| **Roscoe ↔ Livingston Manor** | `300.0 m` | `589` | `84` | `117` | **`0`** | `1500` | **`38`** |
-| **Roscoe ↔ Livingston Manor** | `180.0 m` | `1632` | `221` | `322` | **`0`** | `1500` | **`29`** |
+| **Roscoe ↔ Livingston Manor** | `500.0 m` | `228` | `38` | `46` | **`0`** | `1500` | **`74`** |
+| **Roscoe ↔ Livingston Manor** | `300.0 m` | `589` | `84` | `118` | **`0`** | `1500` | **`38`** |
+| **Roscoe ↔ Livingston Manor** | `180.0 m` | `1632` | `222` | `325` | **`0`** | `1500` | **`28`** |
 | **Livingston Manor ↔ Liberty** | `500.0 m` | `468` | `36` | `23` | **`0`** | `714` | **`11`** |
-| **Livingston Manor ↔ Liberty** | `300.0 m` | `1320` | `108` | `63` | **`0`** | `1500` | **`25`** |
-| **Livingston Manor ↔ Liberty** | `180.0 m` | `3577` | `306` | `168` | **`0`** | `1500` | **`19`** |
+| **Livingston Manor ↔ Liberty** | `300.0 m` | `1320` | `109` | `63` | **`0`** | `1500` | **`25`** |
+| **Livingston Manor ↔ Liberty** | `180.0 m` | `3577` | `308` | `166` | **`0`** | `1500` | **`19`** |
 
 ## 5. Surrounding Terrain Features (USGS GeoNames)
 
 ### Mountain Summits & Peaks
 - **Grants Hill**: `643 m` (`2,109 ft`) — `41.84342, -74.82155`
 - **Baldy**: `467 m` (`1,531 ft`) — `41.76615, -74.96254`
-- **Mongaup Mountain**: `967 m` (`3,173 ft`) — `41.99378, -74.69960`
 - **East Hill**: `536 m` (`1,758 ft`) — `41.79795, -74.87890`
 - **Gray Hill**: `662 m` (`2,171 ft`) — `41.91787, -74.80183`
 - **Revonah Hill**: `650 m` (`2,133 ft`) — `41.81875, -74.76236`
-- **Morton Hill**: `766 m` (`2,512 ft`) — `41.99064, -74.91433`
 - **Round Top**: `556 m` (`1,824 ft`) — `41.90037, -74.81627`
 - **Swiss Hill**: `442 m` (`1,449 ft`) — `41.77370, -74.92961`
 - **Hust Hill**: `587 m` (`1,925 ft`) — `41.81429, -74.94412`
@@ -238,7 +206,7 @@
 - **Rattle Hill**: `788 m` (`2,585 ft`) — `41.97342, -74.76933`
 - **Walnut Mountain**: `652 m` (`2,140 ft`) — `41.78750, -74.76933`
 - **Hill 16**: `590 m` (`1,935 ft`) — `41.81981, -74.93233`
-- **Rodgers Hill**: `756 m` (`2,479 ft`) — `41.98163, -74.94100`
+- **Slawson Mountain**: `760 m` (`2,495 ft`) — `41.91481, -74.65849`
 - **Bald Mountain**: `702 m` (`2,303 ft`) — `41.90288, -74.72437`
 - **Burnt Hill**: `703 m` (`2,307 ft`) — `41.96378, -74.85179`
 
@@ -250,25 +218,29 @@
 - **Morsston**: `41.88426, -74.81044`
 - **Anderson**: `41.90315, -74.70683`
 - **Livingston Manor**: `41.90037, -74.82822`
-- **Beaverkill**: `41.98148, -74.83544`
 - **Grooville**: `41.94259, -74.76738`
 - **Divine Corners**: `41.79037, -74.66572`
 - **Loomis**: `41.79731, -74.78572`
 - **Youngsville**: `41.80842, -74.88627`
 - **White Sulphur Springs**: `41.79759, -74.82683`
+- **Loch Sheldrake**: `41.77009, -74.65710`
 - **Parksville**: `41.85537, -74.75960`
 - **Jeffersonville**: `41.78092, -74.93378`
+- **Cooks Falls**: `41.94787, -74.98044`
 - **Craigie Clair**: `41.96426, -74.86627`
 - **Willowemoc**: `41.91898, -74.67238`
 - **Deckertown**: `41.92509, -74.83266`
+- **Neversink**: `41.84731, -74.61905`
 - **Bradley**: `41.82398, -74.67627`
 - **Joscelyn**: `41.95370, -74.86044`
 - **Ferndale**: `41.77398, -74.73849`
 - **Cooley**: `41.87176, -74.70905`
 - **Aden**: `41.86065, -74.67321`
+- **Tennanah Lake**: `41.89509, -74.97655`
 - **Debruce**: `41.91370, -74.72710`
 - **Liberty**: `41.80120, -74.74655`
 - **Shandelee**: `41.87898, -74.87127`
+- **Briscoe**: `41.76426, -74.87850`
 - **Callicoon Center**: `41.83676, -74.94655`
 - **Parkston**: `41.90453, -74.77294`
 

diff --git a/README.md b/README.md
@@ -192,13 +192,13 @@ if __name__ == "__main__":
 Generated with:
 
 ```bash
-python3 -m lora_gis --state NY --dem ny-gis --route "Roscoe" "Livingston Manor" "Liberty" --hops 2 --candidates "burnt-hill=41.96378,-74.85179" "tennanah-ridge=41.8619,-74.8964" "cooley-ridge=41.8511,-74.7107"
+python3 -m lora_gis --state NY --dem ny-gis --route "Roscoe" "Livingston Manor" "Liberty" --hops 2 --candidates "tennanah-ridge=41.8800,-74.9313" "briscoe-ridge=41.7953,-74.8609" "willowemoc-ridge=41.9056,-74.6774"
 ```
 
 - **Full RF Analysis Report, Topographic Map & Terrain Profiles**: [`examples/roscoe-livingston-manor-liberty/report.md`](examples/roscoe-livingston-manor-liberty/report.md)
-  - **Leg 1 (`Roscoe ↔ Livingston Manor`, `7.95 km`)**: Direct sightline blocked by terrain (`-185.4 m` deficit); solved by a **2-Hop Repeater Pair** (`7.98 km` total path, `68%` worst-case $F_1$ clearance) or a **Hybrid 2-Hop** pairing a grid relay with **Burnt Hill** (`15.30 km`, `128%` $F_1$).
-  - **Leg 2 (`Livingston Manor ↔ Liberty`, `12.93 km`)**: Direct sightline blocked by terrain (`-188.4 m` deficit); solved by a **2-Hop Repeater Pair** (`13.02 km` total path, `70%` worst-case $F_1$ clearance) or a **Hybrid 2-Hop** pairing **Burnt Hill** with a grid relay (`27.36 km`, `99%` $F_1$).
-  - **Explicit Candidate Relays & Terrain Blockage (`Burnt Hill`, `Tennanah Ridge`, `Cooley Ridge`)**: Evaluates three spaced-out highland candidates across both links with cross-sectional terrain obstruction plots ([`candidate_profiles.png`](examples/roscoe-livingston-manor-liberty/candidate_profiles.png)) and red `✕` ridge blockage markers on [`map.png`](examples/roscoe-livingston-manor-liberty/map.png). **Burnt Hill** (`702 m / 2,303 ft`) clears `Livingston Manor` (`156%` $F_1$, `+9.6 m`) while blocked toward `Roscoe` (`-161.8 m`) and `Liberty` (`-151.6 m`); **Cooley Ridge** (`674 m`) misses clearing `Liberty` by `-7.1 m` (`-23 ft`), and **Tennanah Ridge** (`648 m`) is obstructed on all legs (`-101.2 m` / `-108.0 m` / `-134.7 m`).
+  - **Leg 1 (`Roscoe ↔ Livingston Manor`, `7.95 km`)**: Direct sightline blocked by terrain (`-185.3 m` deficit); solved by a **2-Hop Repeater Pair** (`7.98 km` total path, `69%` worst-case $F_1$ clearance).
+  - **Leg 2 (`Livingston Manor ↔ Liberty`, `12.93 km`)**: Direct sightline blocked by terrain (`-188.4 m` deficit); solved by a **2-Hop Repeater Pair** (`13.02 km` total path, `70%` worst-case $F_1$ clearance).
+  - **Explicit Candidate Relays & Terrain Blockage (`Tennanah Ridge`, `Briscoe Ridge`, `Willowemoc Ridge`)**: Evaluates three widely spaced off-corridor ridge sites across both links with cross-sectional terrain obstruction plots ([`candidate_profiles.png`](examples/roscoe-livingston-manor-liberty/candidate_profiles.png)) and red `✕` ridge blockage markers on [`map.png`](examples/roscoe-livingston-manor-liberty/map.png). All three candidates are obstructed by mid-path Catskill ridges (`Tennanah Ridge`: `-144.9 m` / `-131.6 m` / `-146.2 m`; `Briscoe Ridge`: `-214.7 m` / `-169.9 m` / `-139.2 m`; `Willowemoc Ridge`: `-138.9 m` / `-107.8 m` / `-116.4 m`), showing why valley-to-valley links along this route require intermediate ridge relays.
 
 ---
 
